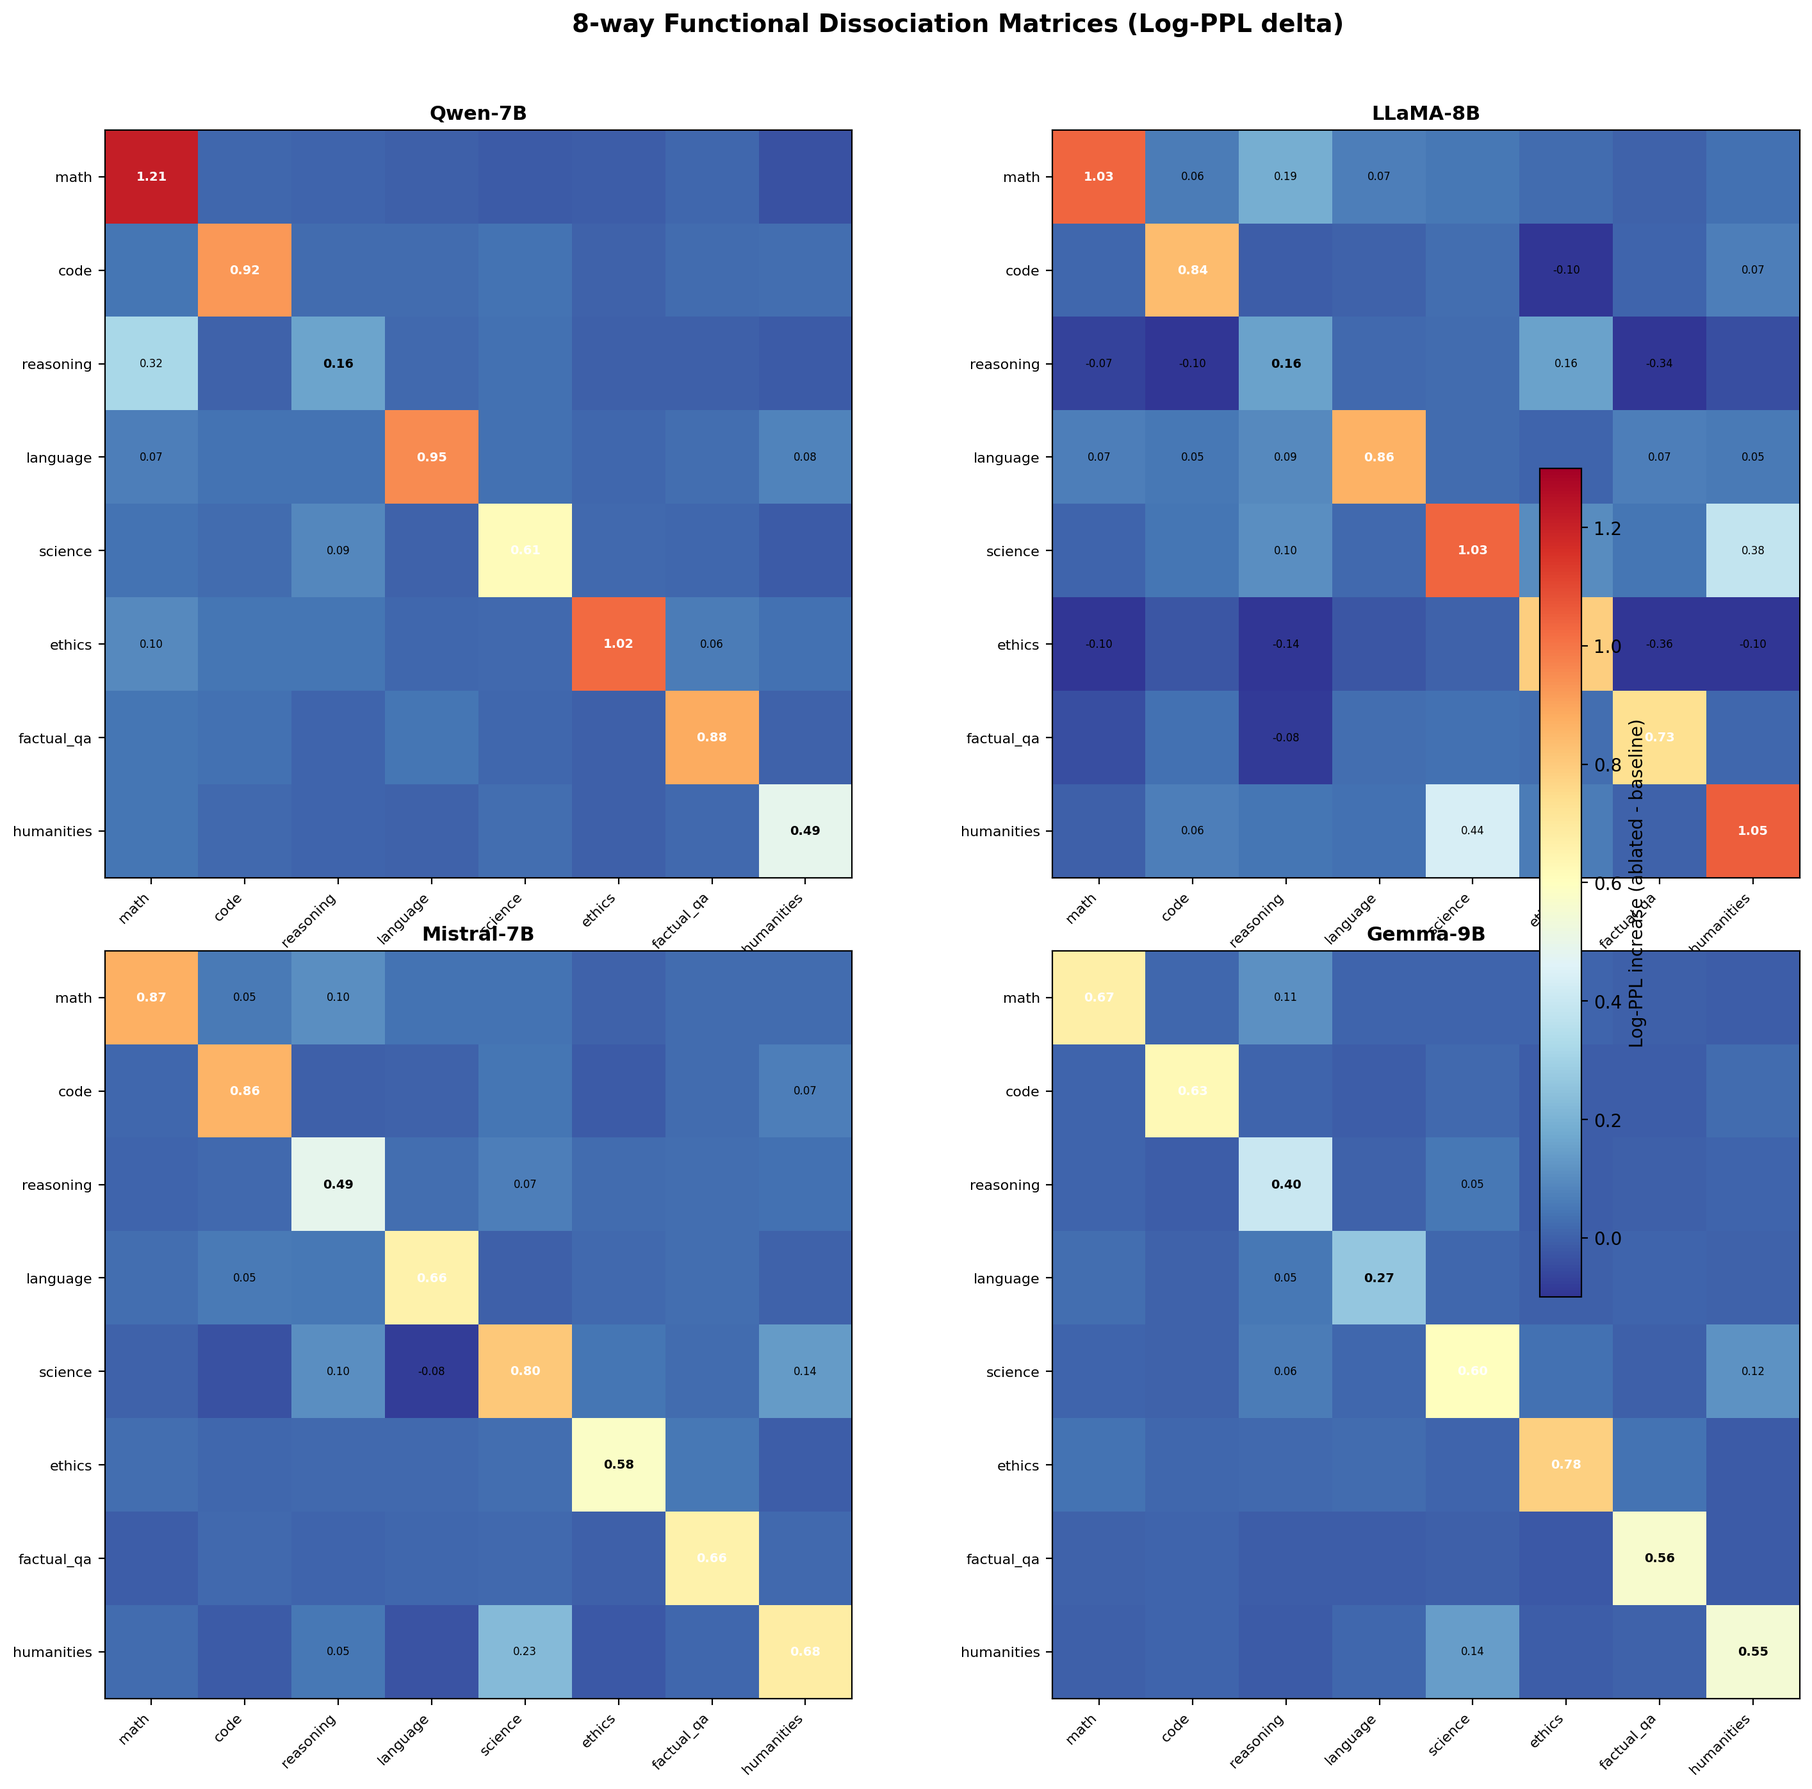
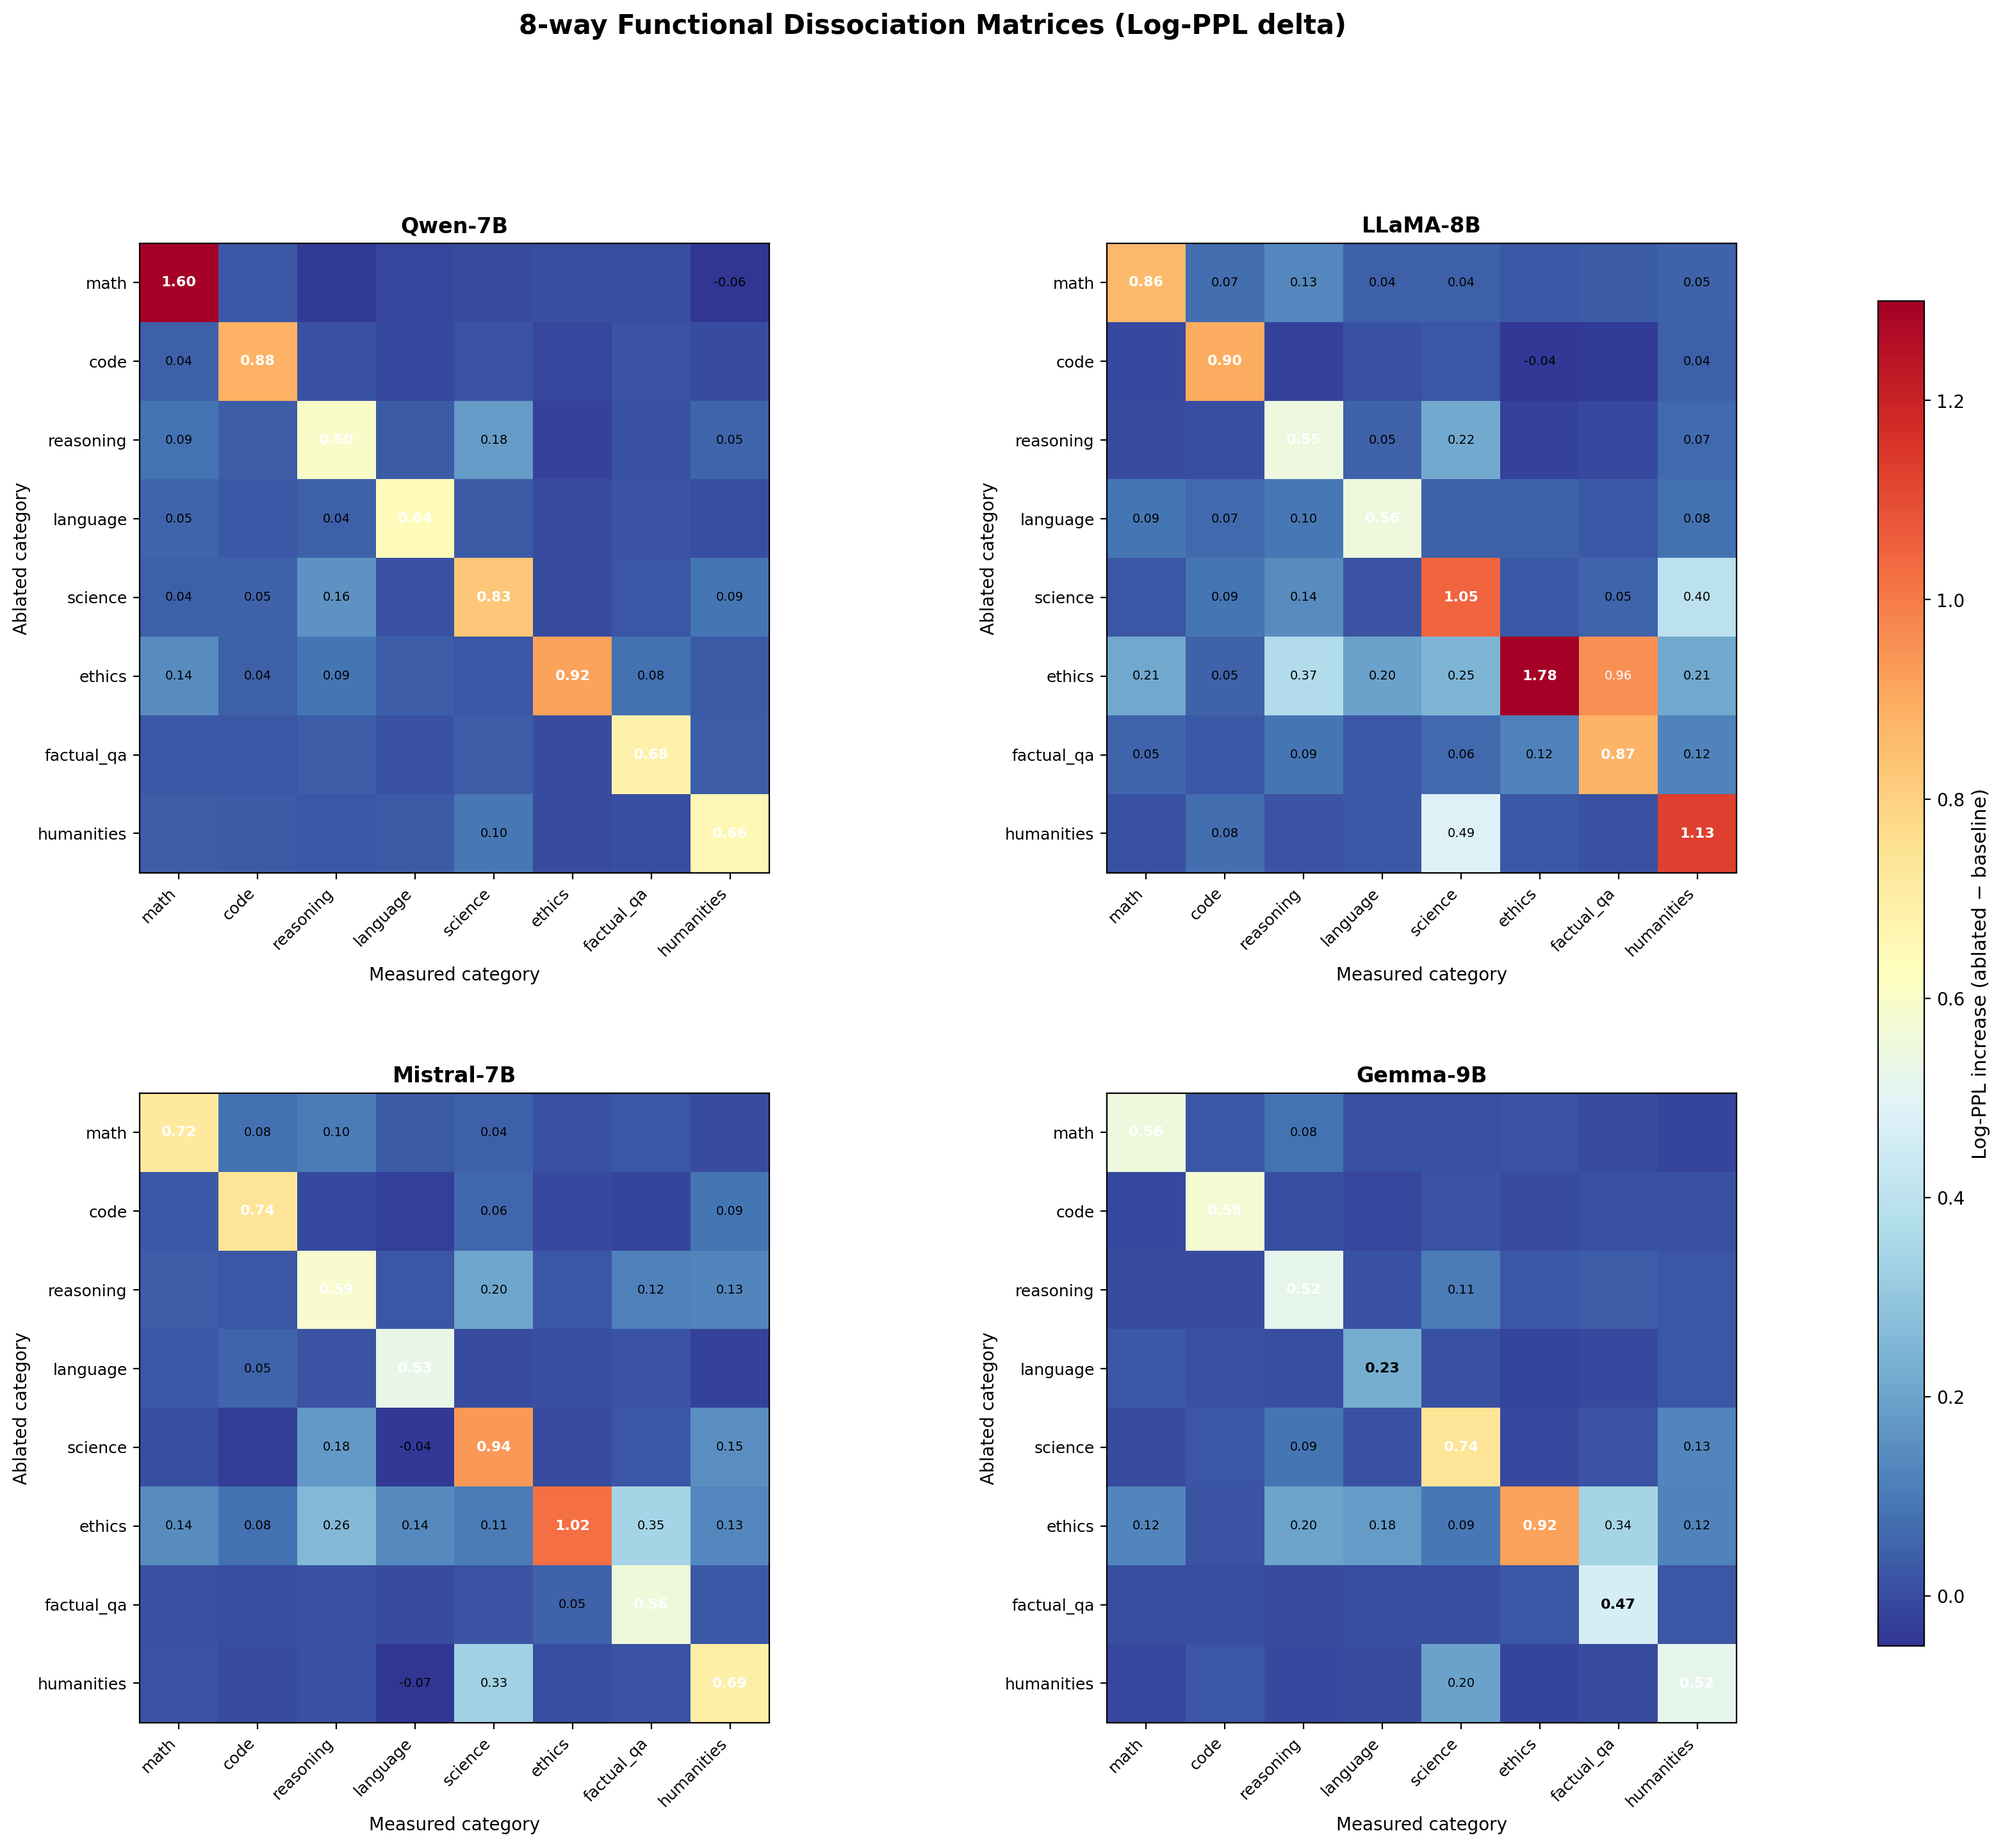
Add predictive validation figure + fix dissociation matrix colorbar
New figure: predictive_validation.png with 3 panels:
- A: Pathway decomposition (12/12 correct, grouped bar)
- B: Atlas-guided steering (median+IQR, math disrupts reasoning, code doesn't)
- C: Atlas-guided pruning (log scale, atlas vs random vs magnitude)

Fixed dissociation_matrices.png: colorbar no longer overlaps subplots

diff --git a/experiments/src/visualize_predictive.py b/experiments/src/visualize_predictive.py
@@ -1,0 +1,209 @@
+"""
+Visualize predictive validation experiments:
+  Panel A: Pathway decomposition (grouped bar chart)
+  Panel B: Atlas-guided steering (line plot, reasoning PPL vs scale)
+  Panel C: Pruning comparison (line plot, avg PPL ratio vs sparsity)
+"""
+
+import json
+import os
+import numpy as np
+import matplotlib.pyplot as plt
+from pathlib import Path
+
+MODELS = [
+    ("Qwen2.5-7B-Instruct", "Qwen-7B"),
+    ("Meta-Llama-3.1-8B-Instruct", "LLaMA-8B"),
+    ("Mistral-7B-Instruct-v0.3", "Mistral-7B"),
+    ("gemma-2-9b-it", "Gemma-9B"),
+]
+
+MODEL_COLORS = {
+    "Qwen-7B": "#e41a1c",
+    "LLaMA-8B": "#377eb8",
+    "Mistral-7B": "#4daf4a",
+    "Gemma-9B": "#ff7f00",
+}
+
+
+def plot_pathway_decomposition(pred_dir, ax):
+    conditions = ["math_only", "reasoning_only", "shared"]
+    cond_labels = ["Math-only\nneurons", "Reasoning-only\nneurons", "Shared\nneurons"]
+
+    all_math_deltas = {c: [] for c in conditions}
+    all_reas_deltas = {c: [] for c in conditions}
+
+    for model_full, model_short in MODELS:
+        path = os.path.join(pred_dir, f"{model_full}_predictive_results.json")
+        if not os.path.exists(path):
+            continue
+        with open(path) as f:
+            data = json.load(f)
+        pd = data["pathway_decomposition"]
+        bl = pd["baseline"]
+        bl_math = bl["math"]["ppl"]
+        bl_reas = bl["reasoning"]["ppl"]
+
+        for cond in conditions:
+            c = pd[cond]
+            math_ppl = c["math"]["ppl"] if isinstance(c["math"], dict) else c["math"]
+            reas_ppl = c["reasoning"]["ppl"] if isinstance(c["reasoning"], dict) else c["reasoning"]
+            md = math_ppl / bl_math
+            rd = reas_ppl / bl_reas
+            all_math_deltas[cond].append(md)
+            all_reas_deltas[cond].append(rd)
+
+    x = np.arange(len(conditions))
+    width = 0.35
+
+    math_means = [np.mean(all_math_deltas[c]) for c in conditions]
+    math_stds = [np.std(all_math_deltas[c]) for c in conditions]
+    reas_means = [np.mean(all_reas_deltas[c]) for c in conditions]
+    reas_stds = [np.std(all_reas_deltas[c]) for c in conditions]
+
+    # Cap shared condition for display
+    math_display = [min(m, 8) for m in math_means]
+    reas_display = [min(m, 8) for m in reas_means]
+
+    bars1 = ax.bar(x - width / 2, math_display, width, yerr=[min(s, 2) for s in math_stds],
+                   label="Math PPL ratio", color="#e41a1c", alpha=0.8, capsize=4)
+    bars2 = ax.bar(x + width / 2, reas_display, width, yerr=[min(s, 2) for s in reas_stds],
+                   label="Reasoning PPL ratio", color="#377eb8", alpha=0.8, capsize=4)
+
+    # Annotate shared condition if capped
+    for i, cond in enumerate(conditions):
+        if math_means[i] > 8:
+            ax.text(x[i] - width / 2, 8.2, f"{math_means[i]:.0f}x", ha="center", fontsize=7, color="#e41a1c", fontweight="bold")
+        if reas_means[i] > 8:
+            ax.text(x[i] + width / 2, 8.2, f"{reas_means[i]:.0f}x", ha="center", fontsize=7, color="#377eb8", fontweight="bold")
+
+    ax.axhline(y=1.0, color="gray", linestyle="--", linewidth=0.8, alpha=0.5)
+    ax.set_xticks(x)
+    ax.set_xticklabels(cond_labels, fontsize=9)
+    ax.set_ylabel("PPL ratio (ablated / baseline)", fontsize=10)
+    ax.set_title("A. Pathway Decomposition (12/12 correct)", fontsize=12, fontweight="bold")
+    ax.legend(fontsize=9, loc="upper left")
+    ax.set_ylim(0, 9)
+
+    # Add prediction annotations
+    ax.annotate("Math > Reas ✓", xy=(0, math_means[0]), fontsize=7, color="green",
+                ha="center", va="bottom", xytext=(0, math_means[0] + 0.3))
+    ax.annotate("Reas > Math ✓", xy=(1, reas_means[1]), fontsize=7, color="green",
+                ha="center", va="bottom", xytext=(1, reas_means[1] + 0.3))
+    ax.annotate("Both ↑↑ ✓", xy=(2, 8.5), fontsize=7, color="green", ha="center")
+
+
+def plot_steering(pred_dir, ax):
+    scales = ["1.2", "1.5", "2.0", "3.0"]
+    scale_vals = [1.2, 1.5, 2.0, 3.0]
+    targets = ["math", "code"]
+    target_labels = {"math": "Amplify math", "code": "Amplify code"}
+    target_colors = {"math": "#e41a1c", "code": "#377eb8"}
+    target_styles = {"math": "-o", "code": "--s"}
+
+    for target in targets:
+        all_deltas = {s: [] for s in scales}
+        for model_full, model_short in MODELS:
+            path = os.path.join(pred_dir, f"{model_full}_predictive_results.json")
+            if not os.path.exists(path):
+                continue
+            with open(path) as f:
+                data = json.load(f)
+            st = data["steering"]
+
+            pd_bl = data["pathway_decomposition"]["baseline"]
+            bl_reas = pd_bl["reasoning"]["ppl"]
+
+            sr = st["steering_results"].get(target, {})
+            for s in scales:
+                if s in sr and "reasoning" in sr[s]:
+                    reas_ppl = sr[s]["reasoning"]["ppl"] if isinstance(sr[s]["reasoning"], dict) else sr[s]["reasoning"]
+                    all_deltas[s].append(reas_ppl / bl_reas)
+
+        medians = [np.median(all_deltas[s]) if all_deltas[s] else 1.0 for s in scales]
+        q25 = [np.percentile(all_deltas[s], 25) if all_deltas[s] else 1.0 for s in scales]
+        q75 = [np.percentile(all_deltas[s], 75) if all_deltas[s] else 1.0 for s in scales]
+        yerr_low = [medians[i] - q25[i] for i in range(len(scales))]
+        yerr_high = [q75[i] - medians[i] for i in range(len(scales))]
+
+        ax.errorbar(scale_vals, medians, yerr=[yerr_low, yerr_high],
+                    fmt=target_styles[target],
+                    color=target_colors[target], label=target_labels[target],
+                    linewidth=2, markersize=6, capsize=4, alpha=0.9)
+
+    ax.axhline(y=1.0, color="gray", linestyle="--", linewidth=0.8, alpha=0.5)
+    ax.set_xlabel("Amplification scale", fontsize=10)
+    ax.set_ylabel("Reasoning PPL ratio (median ± IQR)", fontsize=10)
+    ax.set_title("B. Atlas-Guided Steering (DAG validation)", fontsize=12, fontweight="bold")
+    ax.legend(fontsize=9, loc="upper left")
+    ax.set_ylim(0.8, 2.5)
+
+    ax.annotate("math→reasoning: disrupted ✓\ncode→reasoning: unaffected ✓",
+                xy=(2.0, 2.1), fontsize=8, color="#2a7f2a",
+                bbox=dict(boxstyle="round,pad=0.3", facecolor="lightyellow", alpha=0.8))
+
+
+def plot_pruning(pruning_dir, ax):
+    method_colors = {"Atlas-guided": "#e41a1c", "Random": "#999999", "Magnitude": "#377eb8"}
+    method_styles = {"Atlas-guided": "-o", "Random": "--^", "Magnitude": "-.s"}
+
+    for method in ["Atlas-guided", "Random", "Magnitude"]:
+        all_ratios = {}
+        for model_full, model_short in MODELS:
+            path = os.path.join(pruning_dir, f"{model_full}_atlas_pruning.json")
+            if not os.path.exists(path):
+                continue
+            with open(path) as f:
+                data = json.load(f)
+            for entry in data["methods"][method]:
+                sp = entry["sparsity"]
+                if sp not in all_ratios:
+                    all_ratios[sp] = []
+                all_ratios[sp].append(entry["avg_ratio"])
+
+        sparsities = sorted(all_ratios.keys())
+        means = [np.mean(all_ratios[s]) for s in sparsities]
+        stds = [np.std(all_ratios[s]) for s in sparsities]
+
+        # Cap for display
+        means_display = [min(m, 500) for m in means]
+
+        ax.errorbar([s * 100 for s in sparsities], means_display, yerr=[min(s, 100) for s in stds],
+                    fmt=method_styles[method], color=method_colors[method],
+                    label=method, linewidth=2, markersize=6, capsize=4, alpha=0.9)
+
+    ax.set_yscale("log")
+    ax.set_xlabel("Sparsity (%)", fontsize=10)
+    ax.set_ylabel("Avg PPL ratio (log scale)", fontsize=10)
+    ax.set_title("C. Atlas-Guided Pruning", fontsize=12, fontweight="bold")
+    ax.legend(fontsize=9)
+    ax.axhline(y=1.0, color="gray", linestyle="--", linewidth=0.8, alpha=0.5)
+    ax.axhline(y=10.0, color="red", linestyle=":", linewidth=0.6, alpha=0.3)
+    ax.annotate("10x threshold", xy=(15, 10), fontsize=7, color="red", alpha=0.5)
+
+
+def main(pred_dir, pruning_dir, output_dir):
+    Path(output_dir).mkdir(parents=True, exist_ok=True)
+
+    fig, axes = plt.subplots(1, 3, figsize=(20, 6))
+
+    plot_pathway_decomposition(pred_dir, axes[0])
+    plot_steering(pred_dir, axes[1])
+    plot_pruning(pruning_dir, axes[2])
+
+    fig.suptitle("Predictive Validation: The Functional Atlas Predicts and Controls LLM Behavior",
+                 fontsize=14, fontweight="bold", y=1.02)
+    plt.tight_layout()
+    fig.savefig(os.path.join(output_dir, "predictive_validation.png"), dpi=200, bbox_inches="tight")
+    print(f"Saved: {os.path.join(output_dir, 'predictive_validation.png')}")
+    plt.close()
+
+
+if __name__ == "__main__":
+    import argparse
+    parser = argparse.ArgumentParser()
+    parser.add_argument("--pred_dir", default="experiments/results/scaled_predictive")
+    parser.add_argument("--pruning_dir", default="experiments/results/scaled_pruning")
+    parser.add_argument("--output_dir", default="experiments/figures")
+    args = parser.parse_args()
+    main(args.pred_dir, args.pruning_dir, args.output_dir)

diff --git a/experiments/src/visualize_atlas.py b/experiments/src/visualize_atlas.py
@@ -114,28 +114,28 @@ def plot_dissociation_matrix(dissoc_path, model_name, ax):
     idx_map = {c: cats.index(c) for c in cat_order}
 
     matrix = np.array(data["dissociation_matrix_logppl_delta"])
-    # Reorder to standard order
     order = [idx_map[c] for c in cat_order]
     matrix = matrix[np.ix_(order, order)]
 
-    im = ax.imshow(matrix, cmap="RdYlBu_r", vmin=-0.1, vmax=1.3, interpolation="nearest")
+    im = ax.imshow(matrix, cmap="RdYlBu_r", vmin=-0.05, vmax=1.3, interpolation="nearest")
     ax.set_xticks(range(len(cat_order)))
-    ax.set_xticklabels(cat_order, rotation=45, ha="right", fontsize=8)
+    ax.set_xticklabels(cat_order, rotation=45, ha="right", fontsize=9)
     ax.set_yticks(range(len(cat_order)))
-    ax.set_yticklabels(cat_order, fontsize=8)
-    ax.set_title(model_name, fontsize=11, fontweight="bold")
+    ax.set_yticklabels(cat_order, fontsize=9)
+    ax.set_xlabel("Measured category", fontsize=10)
+    ax.set_ylabel("Ablated category", fontsize=10)
+    ax.set_title(model_name, fontsize=12, fontweight="bold")
 
-    # Annotate values
     for i in range(len(cat_order)):
         for j in range(len(cat_order)):
             val = matrix[i, j]
-            color = "white" if val > 0.6 else "black"
+            color = "white" if val > 0.5 else "black"
             if i == j:
                 ax.text(j, i, f"{val:.2f}", ha="center", va="center",
-                        fontsize=7, fontweight="bold", color=color)
-            elif abs(val) > 0.05:
+                        fontsize=8, fontweight="bold", color=color)
+            elif abs(val) > 0.04:
                 ax.text(j, i, f"{val:.2f}", ha="center", va="center",
-                        fontsize=6, color=color)
+                        fontsize=7, color=color)
 
     return im
 
@@ -176,16 +176,20 @@ def main(stats_dir, dissoc_dir, output_dir):
     plt.close()
 
     # === Figure 3: 4-panel dissociation matrices ===
-    fig, axes = plt.subplots(2, 2, figsize=(16, 14))
-    axes = axes.flatten()
+    fig, axes = plt.subplots(2, 2, figsize=(18, 15))
+    axes_flat = axes.flatten()
+    im = None
     for idx, (model_full, model_short) in enumerate(MODELS):
         path = os.path.join(dissoc_dir, f"{model_full}_multi_dissociation.json")
         if os.path.exists(path):
-            im = plot_dissociation_matrix(path, model_short, axes[idx])
+            im = plot_dissociation_matrix(path, model_short, axes_flat[idx])
     fig.suptitle("8-way Functional Dissociation Matrices (Log-PPL delta)",
-                 fontsize=14, fontweight="bold", y=0.98)
-    fig.colorbar(im, ax=axes, shrink=0.6, label="Log-PPL increase (ablated - baseline)")
-    plt.tight_layout(rect=[0, 0, 0.92, 0.95])
+                 fontsize=15, fontweight="bold", y=1.0)
+    fig.subplots_adjust(right=0.88, hspace=0.35, wspace=0.25)
+    cbar_ax = fig.add_axes([0.91, 0.15, 0.02, 0.7])
+    if im is not None:
+        cb = fig.colorbar(im, cax=cbar_ax)
+        cb.set_label("Log-PPL increase (ablated − baseline)", fontsize=11)
     fig.savefig(os.path.join(output_dir, "dissociation_matrices.png"), dpi=200, bbox_inches="tight")
     print(f"Saved: dissociation_matrices.png")
     plt.close()
